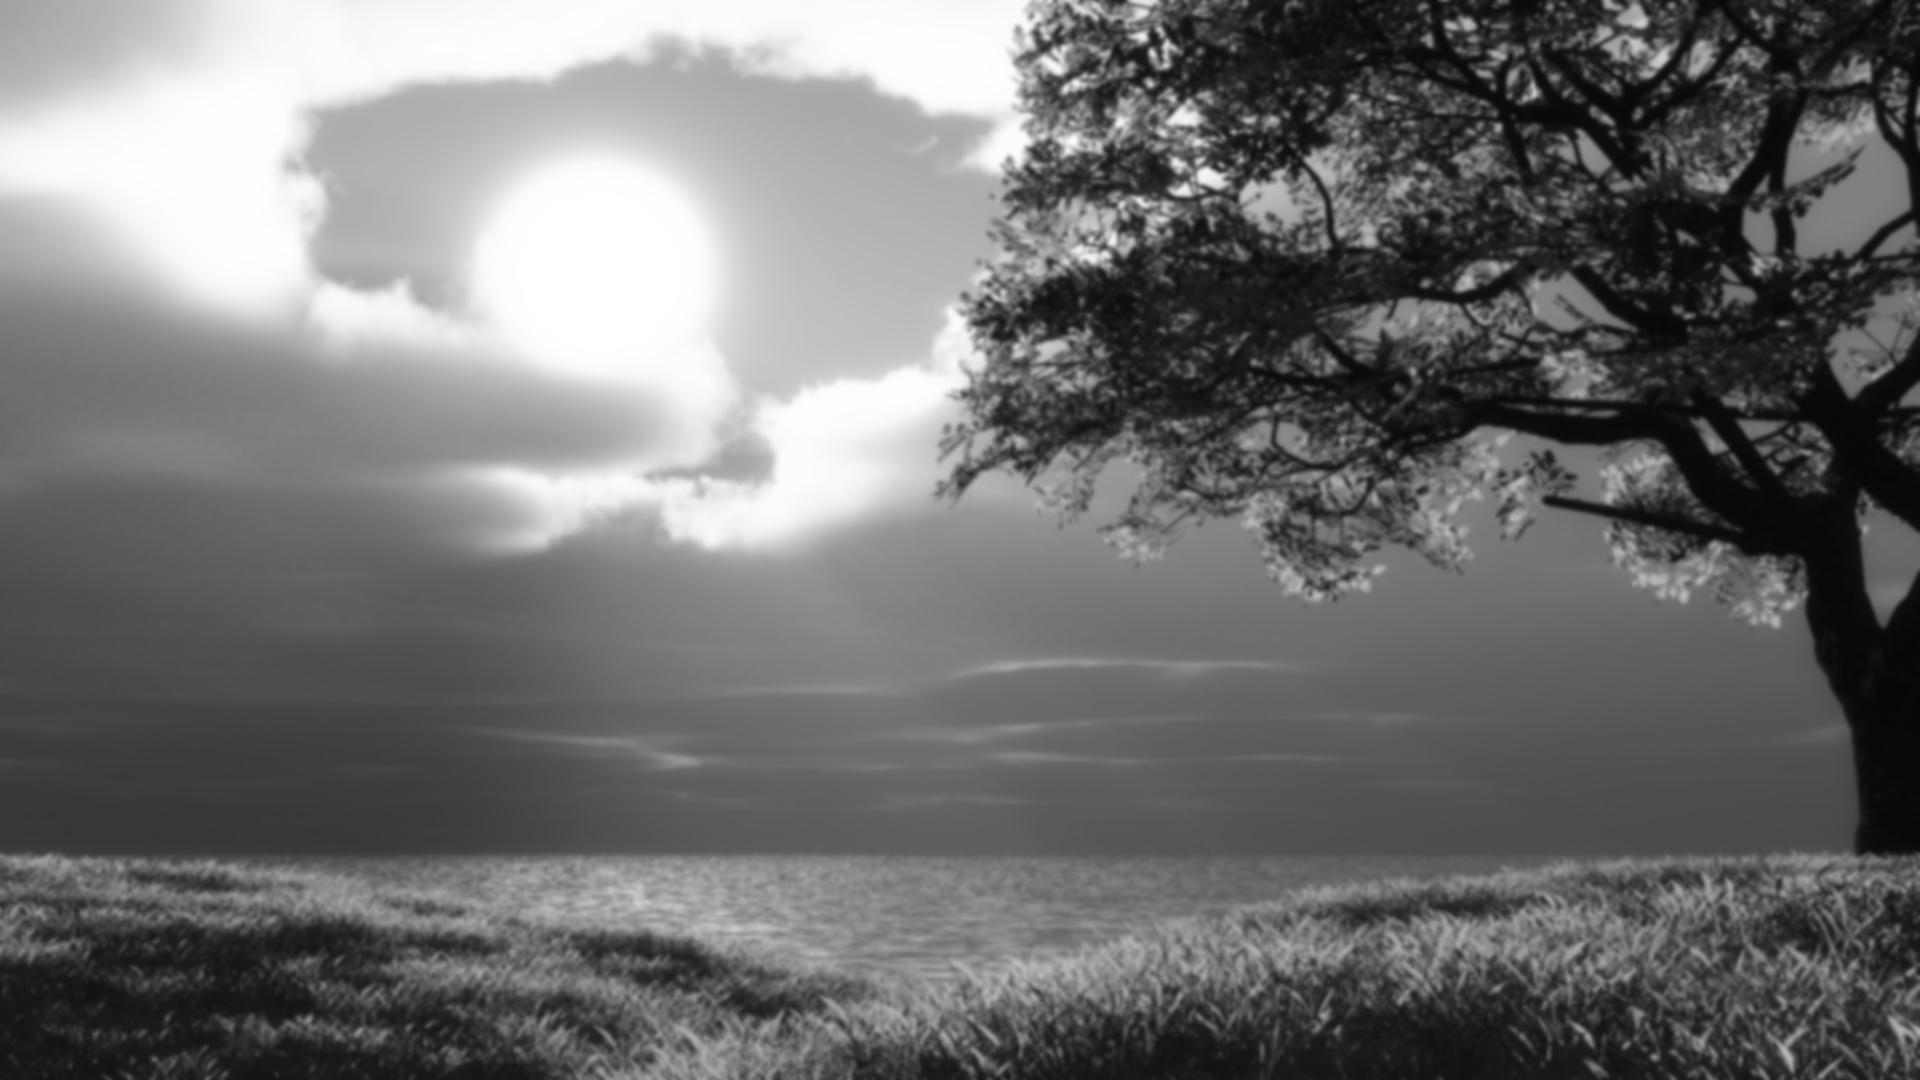
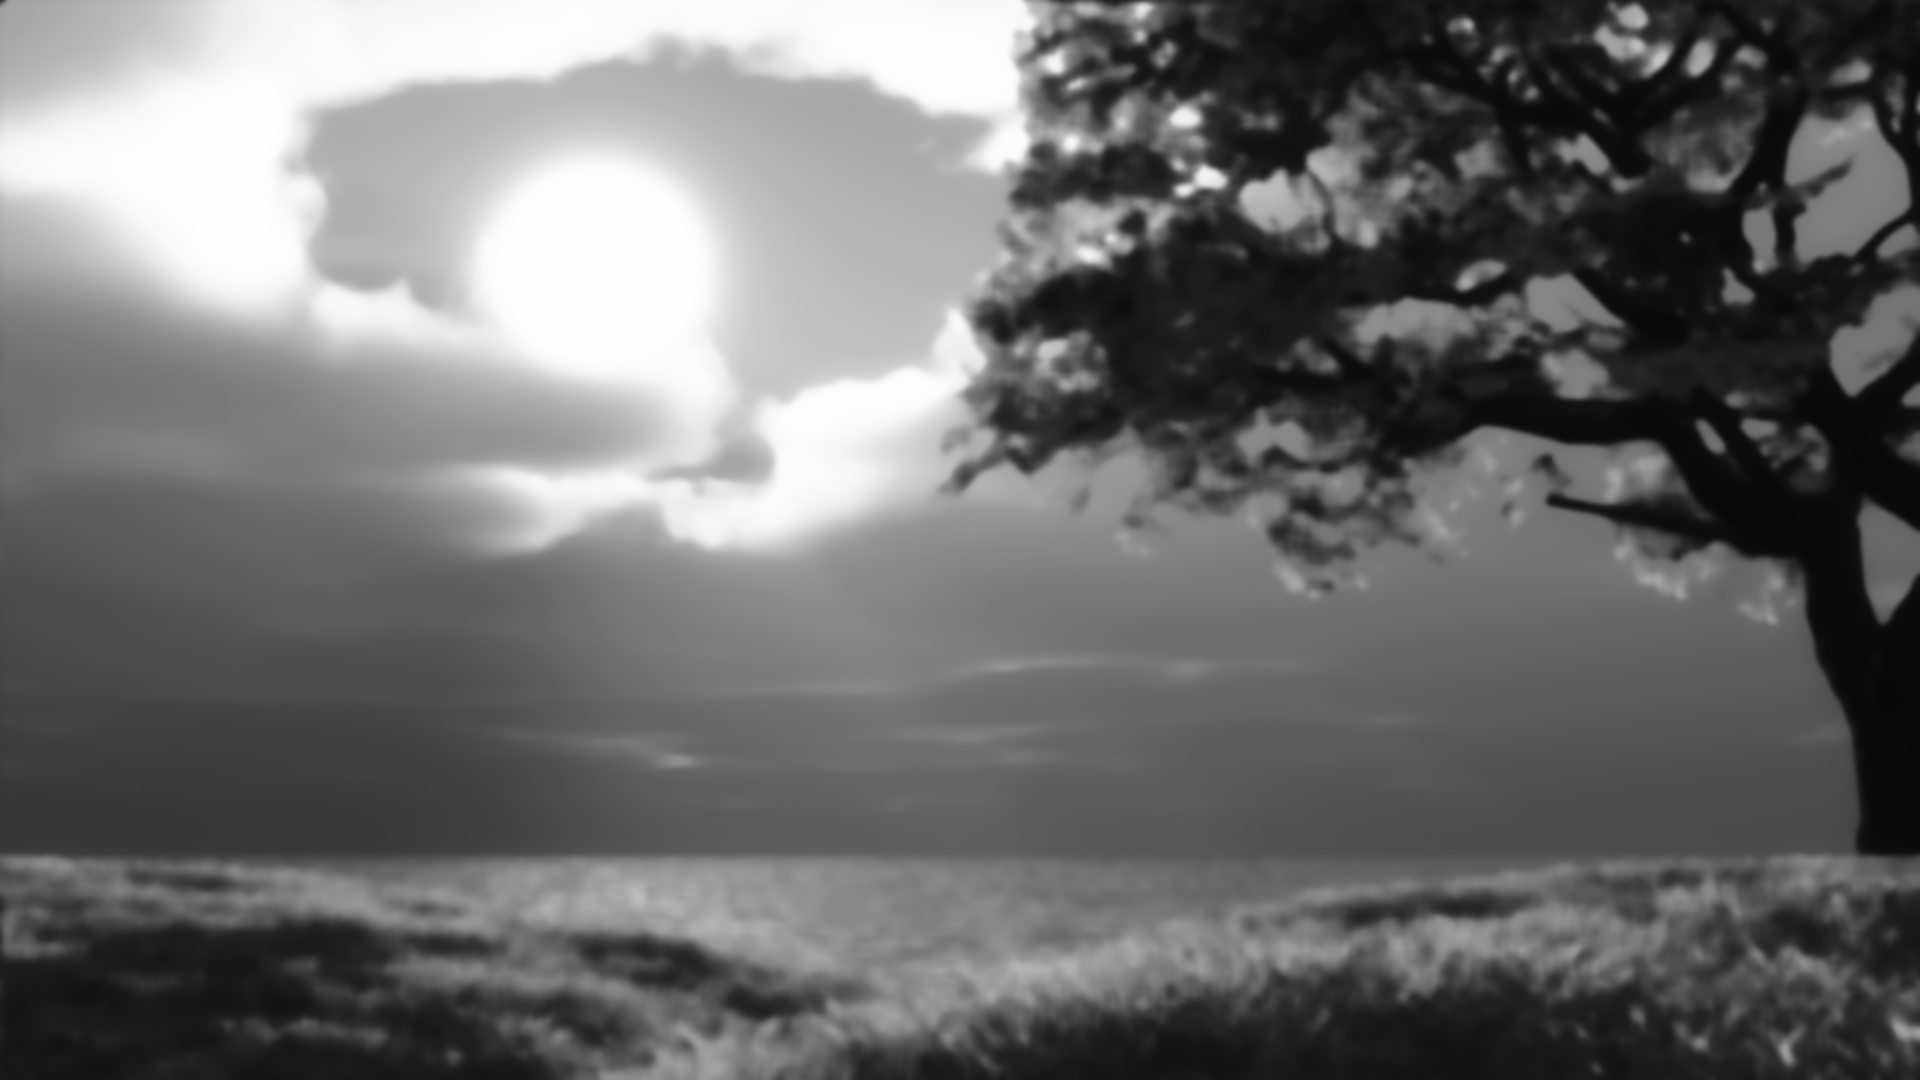
Use CUDA for median blur

diff --git a/app/src/app.cpp b/app/src/app.cpp
@@ -12,11 +12,11 @@
 
 #include <QApplication>
 
-// #define STB_IMAGE_IMPLEMENTATION
-// #include "stb_image.h"
+#define STB_IMAGE_IMPLEMENTATION
+#include "stb_image.h"
 
-// #define STB_IMAGE_WRITE_IMPLEMENTATION
-// #include "stb_image_write.h"
+#define STB_IMAGE_WRITE_IMPLEMENTATION
+#include "stb_image_write.h"
 
 int main(int argc, char* argv[])
 {
@@ -30,37 +30,4 @@ int main(int argc, char* argv[])
     window.show();
 
     return app.exec();
-
-    // int width, height, channels;
-    // unsigned char* image = stbi_load("../../../res/tiff/nature.jpg", &width, &height, &channels, 1); // Load as grayscale
-
-    // if (!image) {
-    //     std::cerr << "Failed to load image!" << std::endl;
-    //     return -1;
-    // }
-
-    // // Allocate the float buffer
-    // std::vector<float> srcBuffer(width * height);
-    // std::vector<float> dstBuffer(width * height);
-
-    // // Convert the image data to float
-    // for (int i = 0; i < width * height; ++i)
-    //     srcBuffer[i] = static_cast<float>(image[i]) / 255.0f;
-
-
-    // stbi_image_free(image);
-
-    // // Apply the Gaussian Blur
-    // int kernelSize = 9;
-    // float sigma = 2.0f;
-    // Blur::gaussFilter(srcBuffer.data(), dstBuffer.data(), width, height, kernelSize, sigma);
-
-    // // Convert back to unsigned char and save the image
-    // std::vector<unsigned char> outputImage(width * height);
-
-    // for (int i = 0; i < width * height; ++i) {
-    //     outputImage[i] = static_cast<unsigned char>(std::min(1.0f, std::max(0.0f, dstBuffer[i])) * 255.0f);
-    // }
-
-    // stbi_write_jpg("../../../res/tiff/nature_blurred.jpg", width, height, 1, outputImage.data(), width);
 }

diff --git a/geo-tiff/src/blur/blur.cpp b/geo-tiff/src/blur/blur.cpp
@@ -17,9 +17,6 @@ void Blur::gaussFilter(const float* src, float* dst, int width, int height, int 
 
 void Blur::medianFilter(const float* src, float* dst, int width, int height, int kernelRadius)
 {
-    // cv::Mat srcMat(height, width, CV_32FC1, (void*)src);
-    // cv::Mat dstMat(height, width, CV_32FC1, (void*)dst);
-
-    // cv::medianBlur(srcMat, dstMat, kernelRadius);
+    medianFilterCUDA(src, dst, width, height, kernelRadius);
 }
 

diff --git a/geo-tiff/src/geotiff_handler.cpp b/geo-tiff/src/geotiff_handler.cpp
@@ -77,7 +77,8 @@ float* GeoTiffHandler::getRaster()
 
     // Blur the raster
     Logger::log(LogLevel::INFO, GeoTiffHandler::s_logPrefix + " Applying blur to TIFF.");
-    Blur::gaussFilter(pafRaster, pafRaster, nXSize, nYSize, 5, 2.4f);
+    Blur::medianFilter(pafRaster, pafRaster, nXSize, nYSize, 7);
+    Blur::gaussFilter(pafRaster, pafRaster, nXSize, nYSize, 7, 2.4f);
 
     return pafRaster;
 }

diff --git a/geo-tiff/include/blur/blur.h b/geo-tiff/include/blur/blur.h
@@ -17,5 +17,5 @@ private:
 
 	static void gaussFilterCUDA(const float* src, float* dst, int width, int height, int kernelRadius, float sigma);
 
-	static void medianFilterCUDA(const float* src, float* dst, int width, int height);
+	static void medianFilterCUDA(const float* src, float* dst, int width, int height, int kernelRadius);
 };
